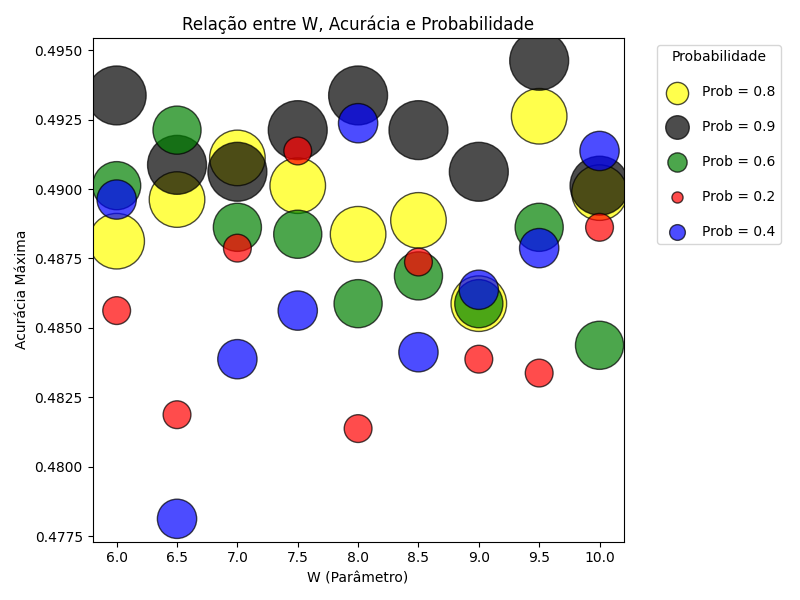
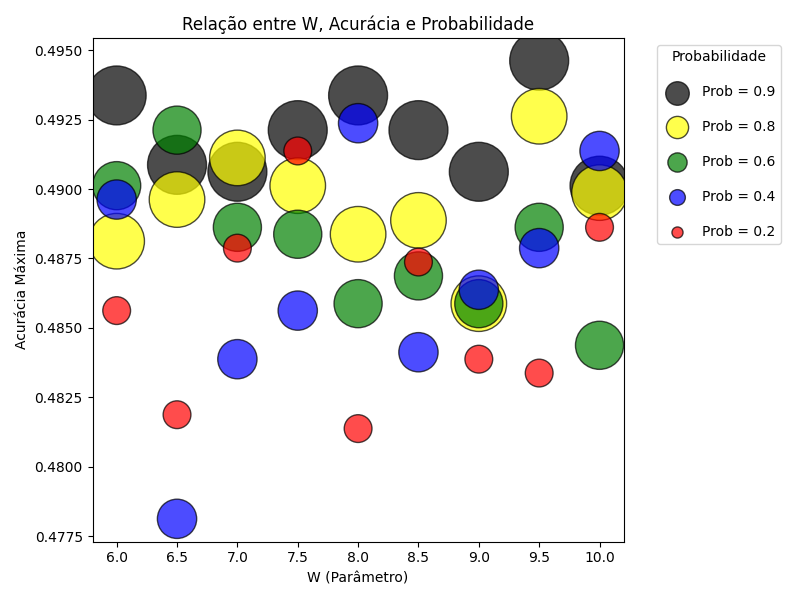
update

diff --git a/graficos/affectnet/grid-search-w/grafico_grid_search.py b/graficos/affectnet/grid-search-w/grafico_grid_search.py
@@ -27,7 +27,8 @@ plt.show()
 colors = {0.2: "red", 0.4: "blue", 0.6: "green", 0.8: "yellow", 0.9: "black"}
 
 plt.figure(figsize=(8, 6))
-for p in set(prob):
+#for p in set(prob):
+for p in sorted(set(prob), reverse=True):
     mask = [i for i, val in enumerate(prob) if val == p]
     plt.scatter(
         [W[i] for i in mask],
